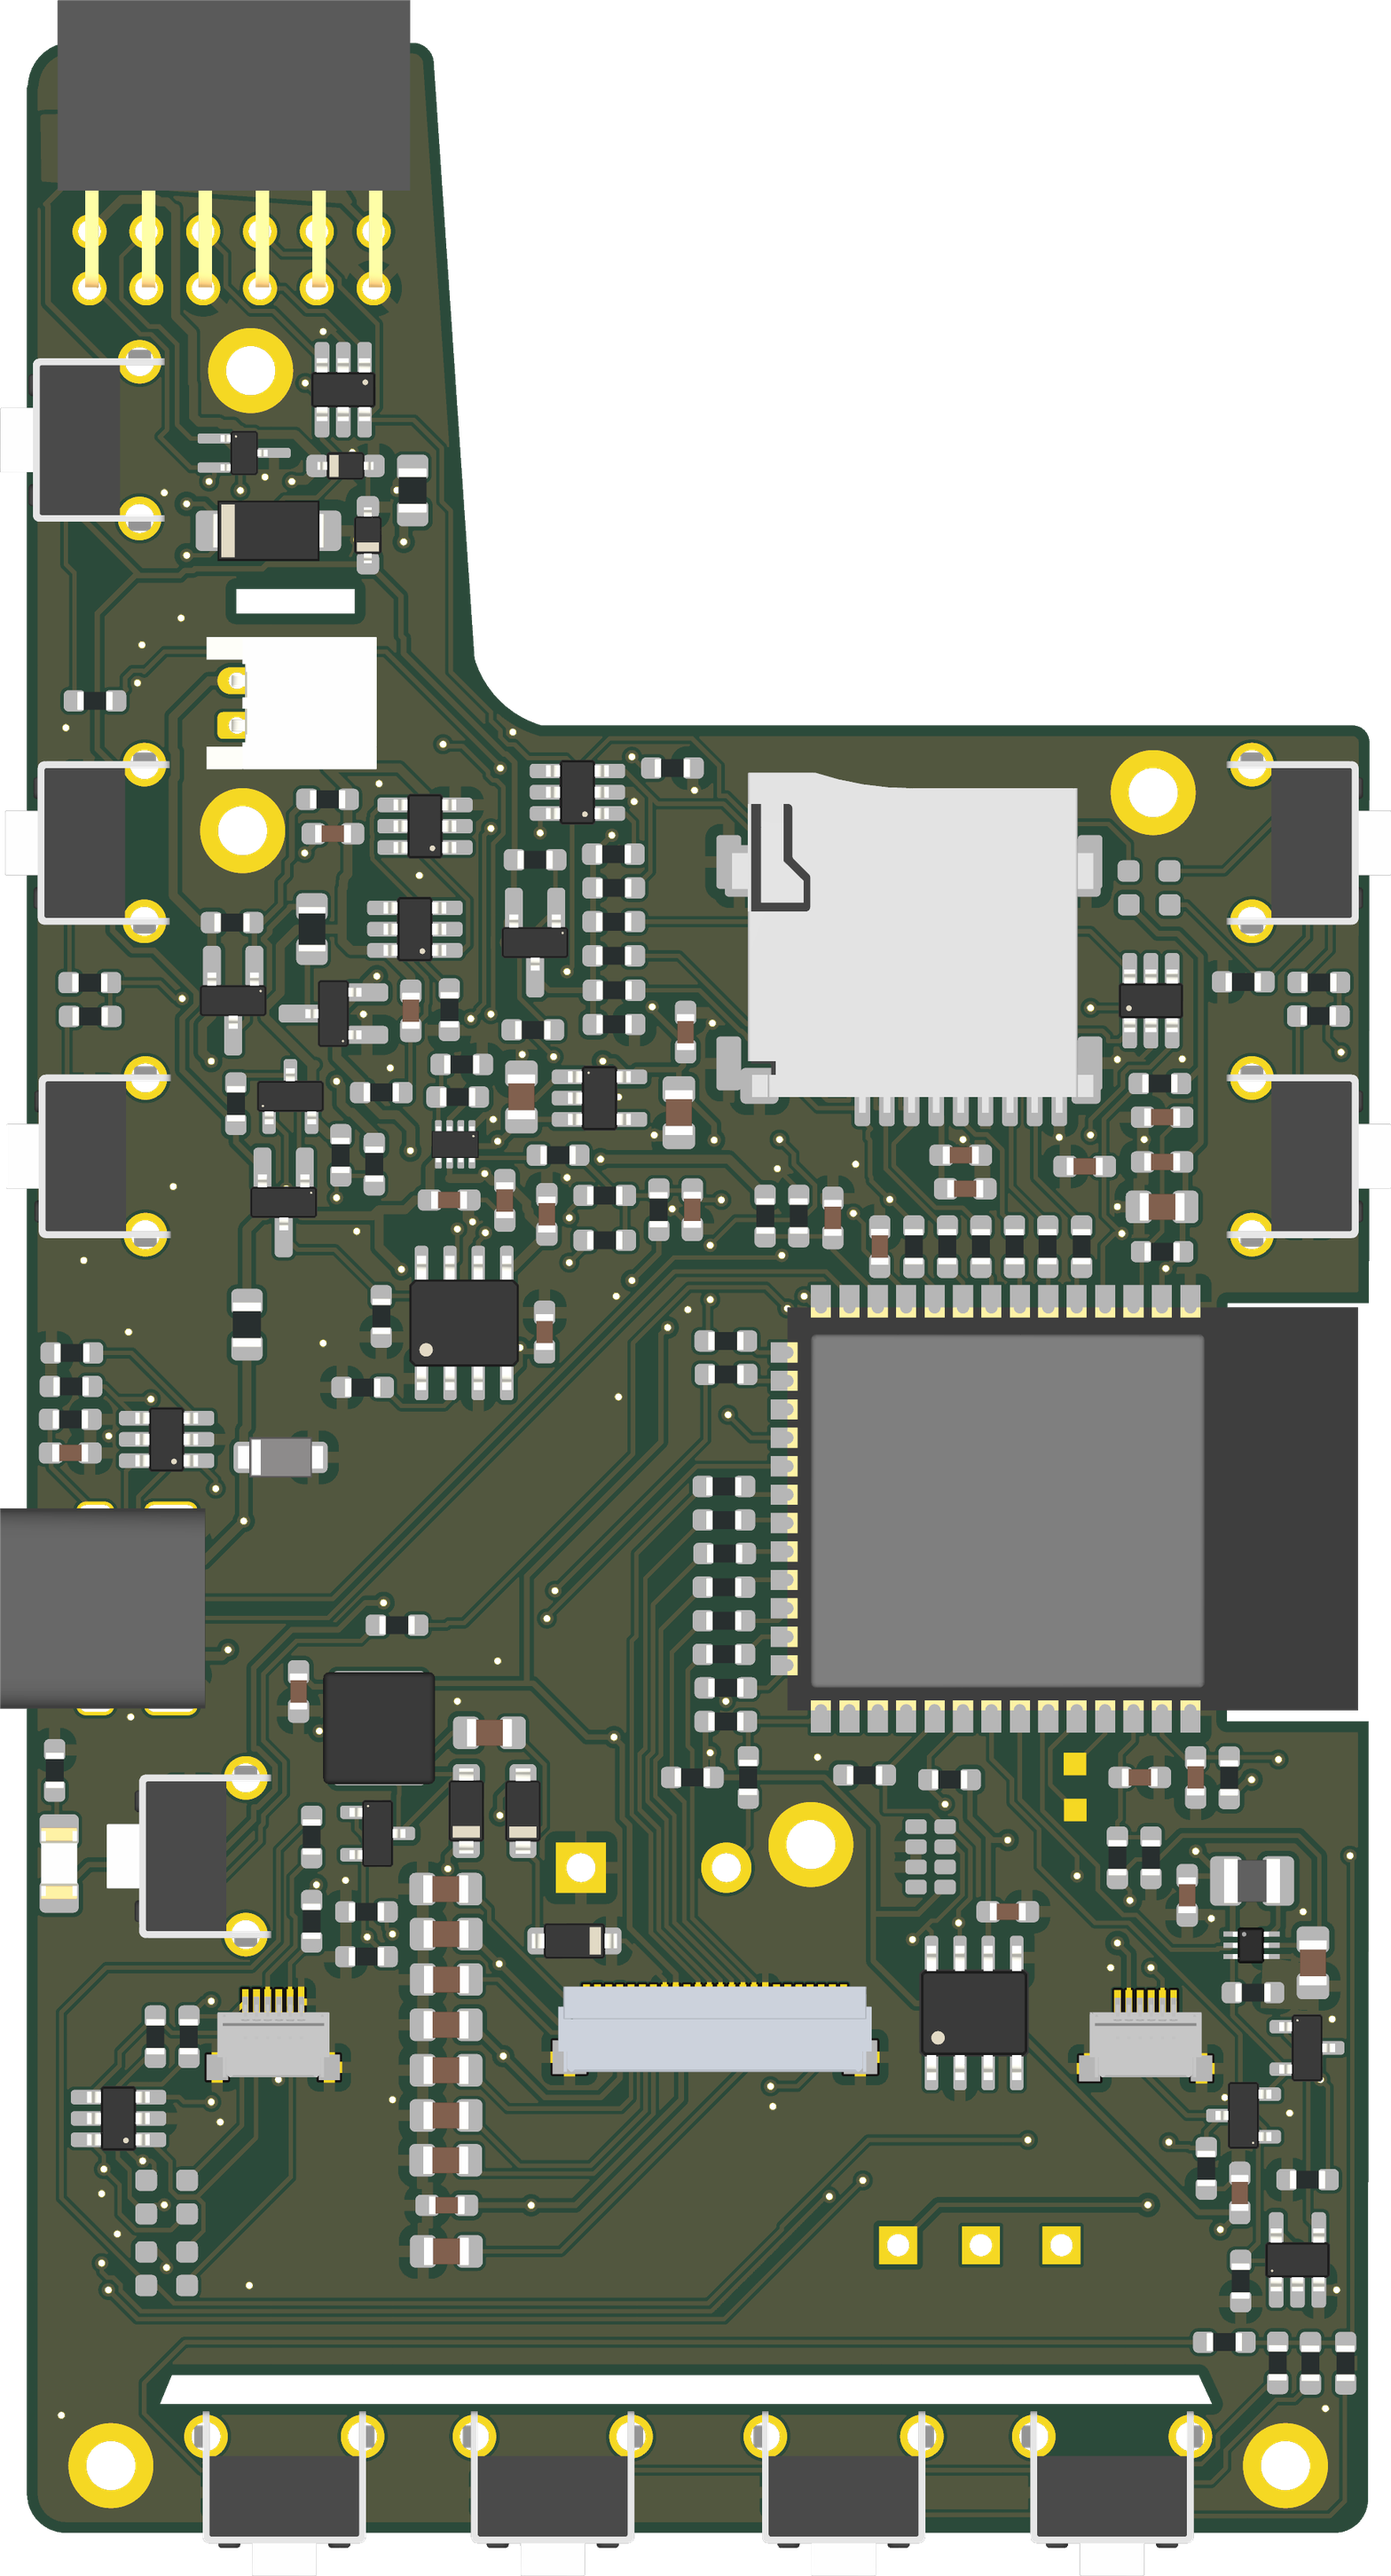
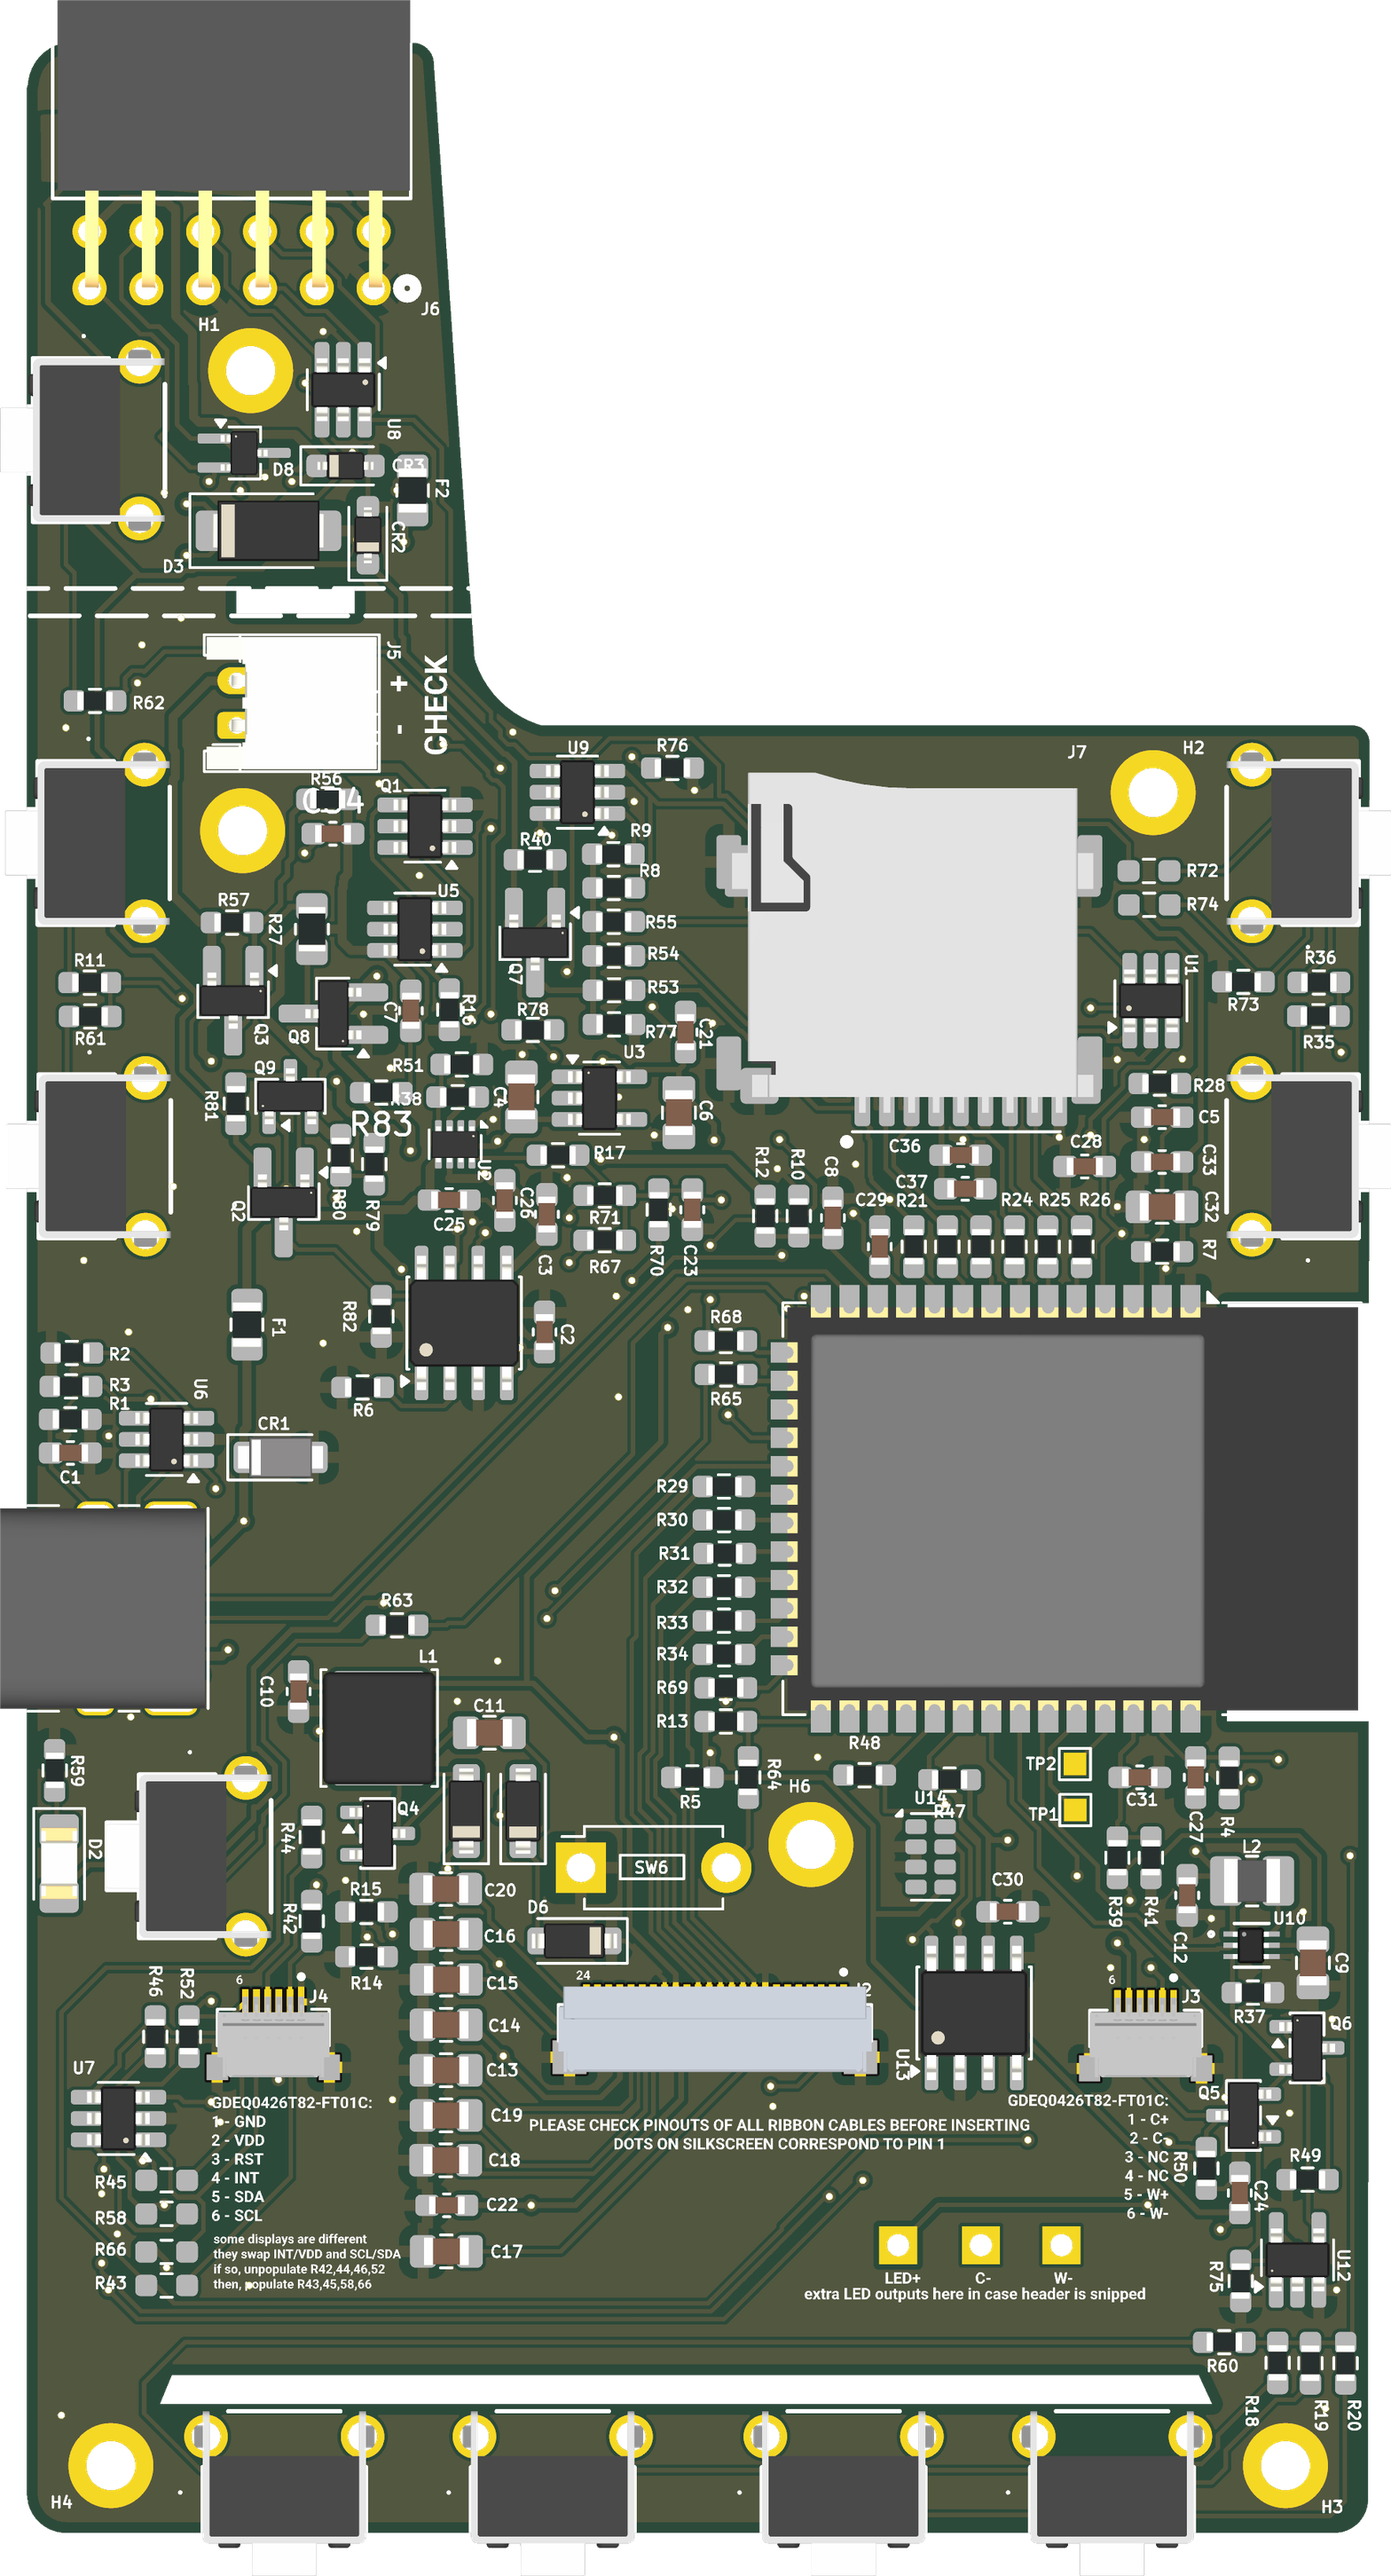
README: point to the project website for the full picture; board renders now show the silkscreen layers

diff --git a/README.md b/README.md
@@ -35,6 +35,11 @@ Silkscreen in KiCad 9.0.6, but
 
 There is **no firmware for this board yet**. Read [Firmware](#firmware) before you order.
 
+The complete picture of the project, the story behind it, the cost breakdown and the build
+configurator are on the project website. As of 21 September 2026 the website is still locked
+while I wait for the first boards. It opens, and this README links to it, as soon as I have
+tested a board in my hands.
+
 Everything about how the board works, pin by pin, is in one document:
 [docs/HARDWARE.md](docs/HARDWARE.md). It covers every circuit block, the GPIO map, what firmware
 has to do for the hardware, and the dimensions a case needs.
@@ -90,13 +95,12 @@ board and solders every part onto it. You will be clicking through a web shop an
 files that are already in this repository. Unfamiliar words are defined in
 [Words used on the factory's website](#words-used-on-the-factorys-website).
 
-> **Or let the builder make the files.** The *Build one* page at
-> [silkscreenreader.com](https://silkscreenreader.com/builder.html) walks you through the panel
-> variant and the optional blocks, estimates what the result costs, and gives you the three upload
-> files for exactly that build: the same Gerber zip, plus a BOM and CPL with the parts you left off
-> already removed (see [Choosing a configuration](#choosing-a-configuration)). For the standard
-> build they are byte-for-byte the files in `production/`. The site is still in preview, and the
-> steps below are the same either way.
+> **Or let the builder make the files.** The *Build one* page on the website walks you through
+> the panel variant and the optional blocks, estimates what the result costs, and gives you the
+> three upload files for exactly that build: the same Gerber zip, plus a BOM and CPL with the
+> parts you left off already removed (see [Choosing a configuration](#choosing-a-configuration)).
+> For the standard build they are byte-for-byte the files in `production/`. The website is not
+> open yet, and the steps below are the same either way.
 
 ### What it costs and how long it takes
 
@@ -104,8 +108,8 @@ The minimum order is **5 bare boards**, and you choose how many of them the fact
 as few as **2**, all 5, or more boards if you want them. Most of the bill is one-off (the bare
 boards, setup, the solder stencil, and a small loading fee for each of about two dozen "Extended"
 part types the factory has to fetch), so the price per assembled board falls quickly as you build
-more. [silkscreenreader.com/cost](https://silkscreenreader.com/cost) breaks the cost down by
-order size and explains where each fee comes from.
+more. The website's cost page breaks the cost down by order size and explains where each fee
+comes from.
 
 For scale, my own order on **21 September 2026** (no coupons, US delivery): five boards with two
 assembled came to **$223.95** for boards, parts and assembly, and **$305.23** at checkout once
@@ -264,13 +268,12 @@ without a known-good order to compare against. Everything else in this guide ass
 
 The files in `production/` build the **full standard build**: every block fitted except the DNP
 options. The board is a **core** that is always fitted, plus add-on groups you can leave off. For
-a reduced configuration, download its files from the
-[silkscreenreader.com builder](https://silkscreenreader.com/builder.html), or do it by hand: delete
-the listed references from the BOM **and** the CPL and leave the pads empty.
+a reduced configuration, download its files from the builder on the website, or do it by hand:
+delete the listed references from the BOM **and** the CPL and leave the pads empty.
 
 Each group lists every part that exists only to serve it, taken from the schematic netlist (rails
 and the shared I²C bus aside), so leaving a group off leaves nothing behind that does no work. The
-[silkscreenreader.com](https://silkscreenreader.com) builder uses the same groups.
+website's builder uses the same groups.
 
 | Group | References | Fit it when | Works without it? |
 |---|---|---|---|
